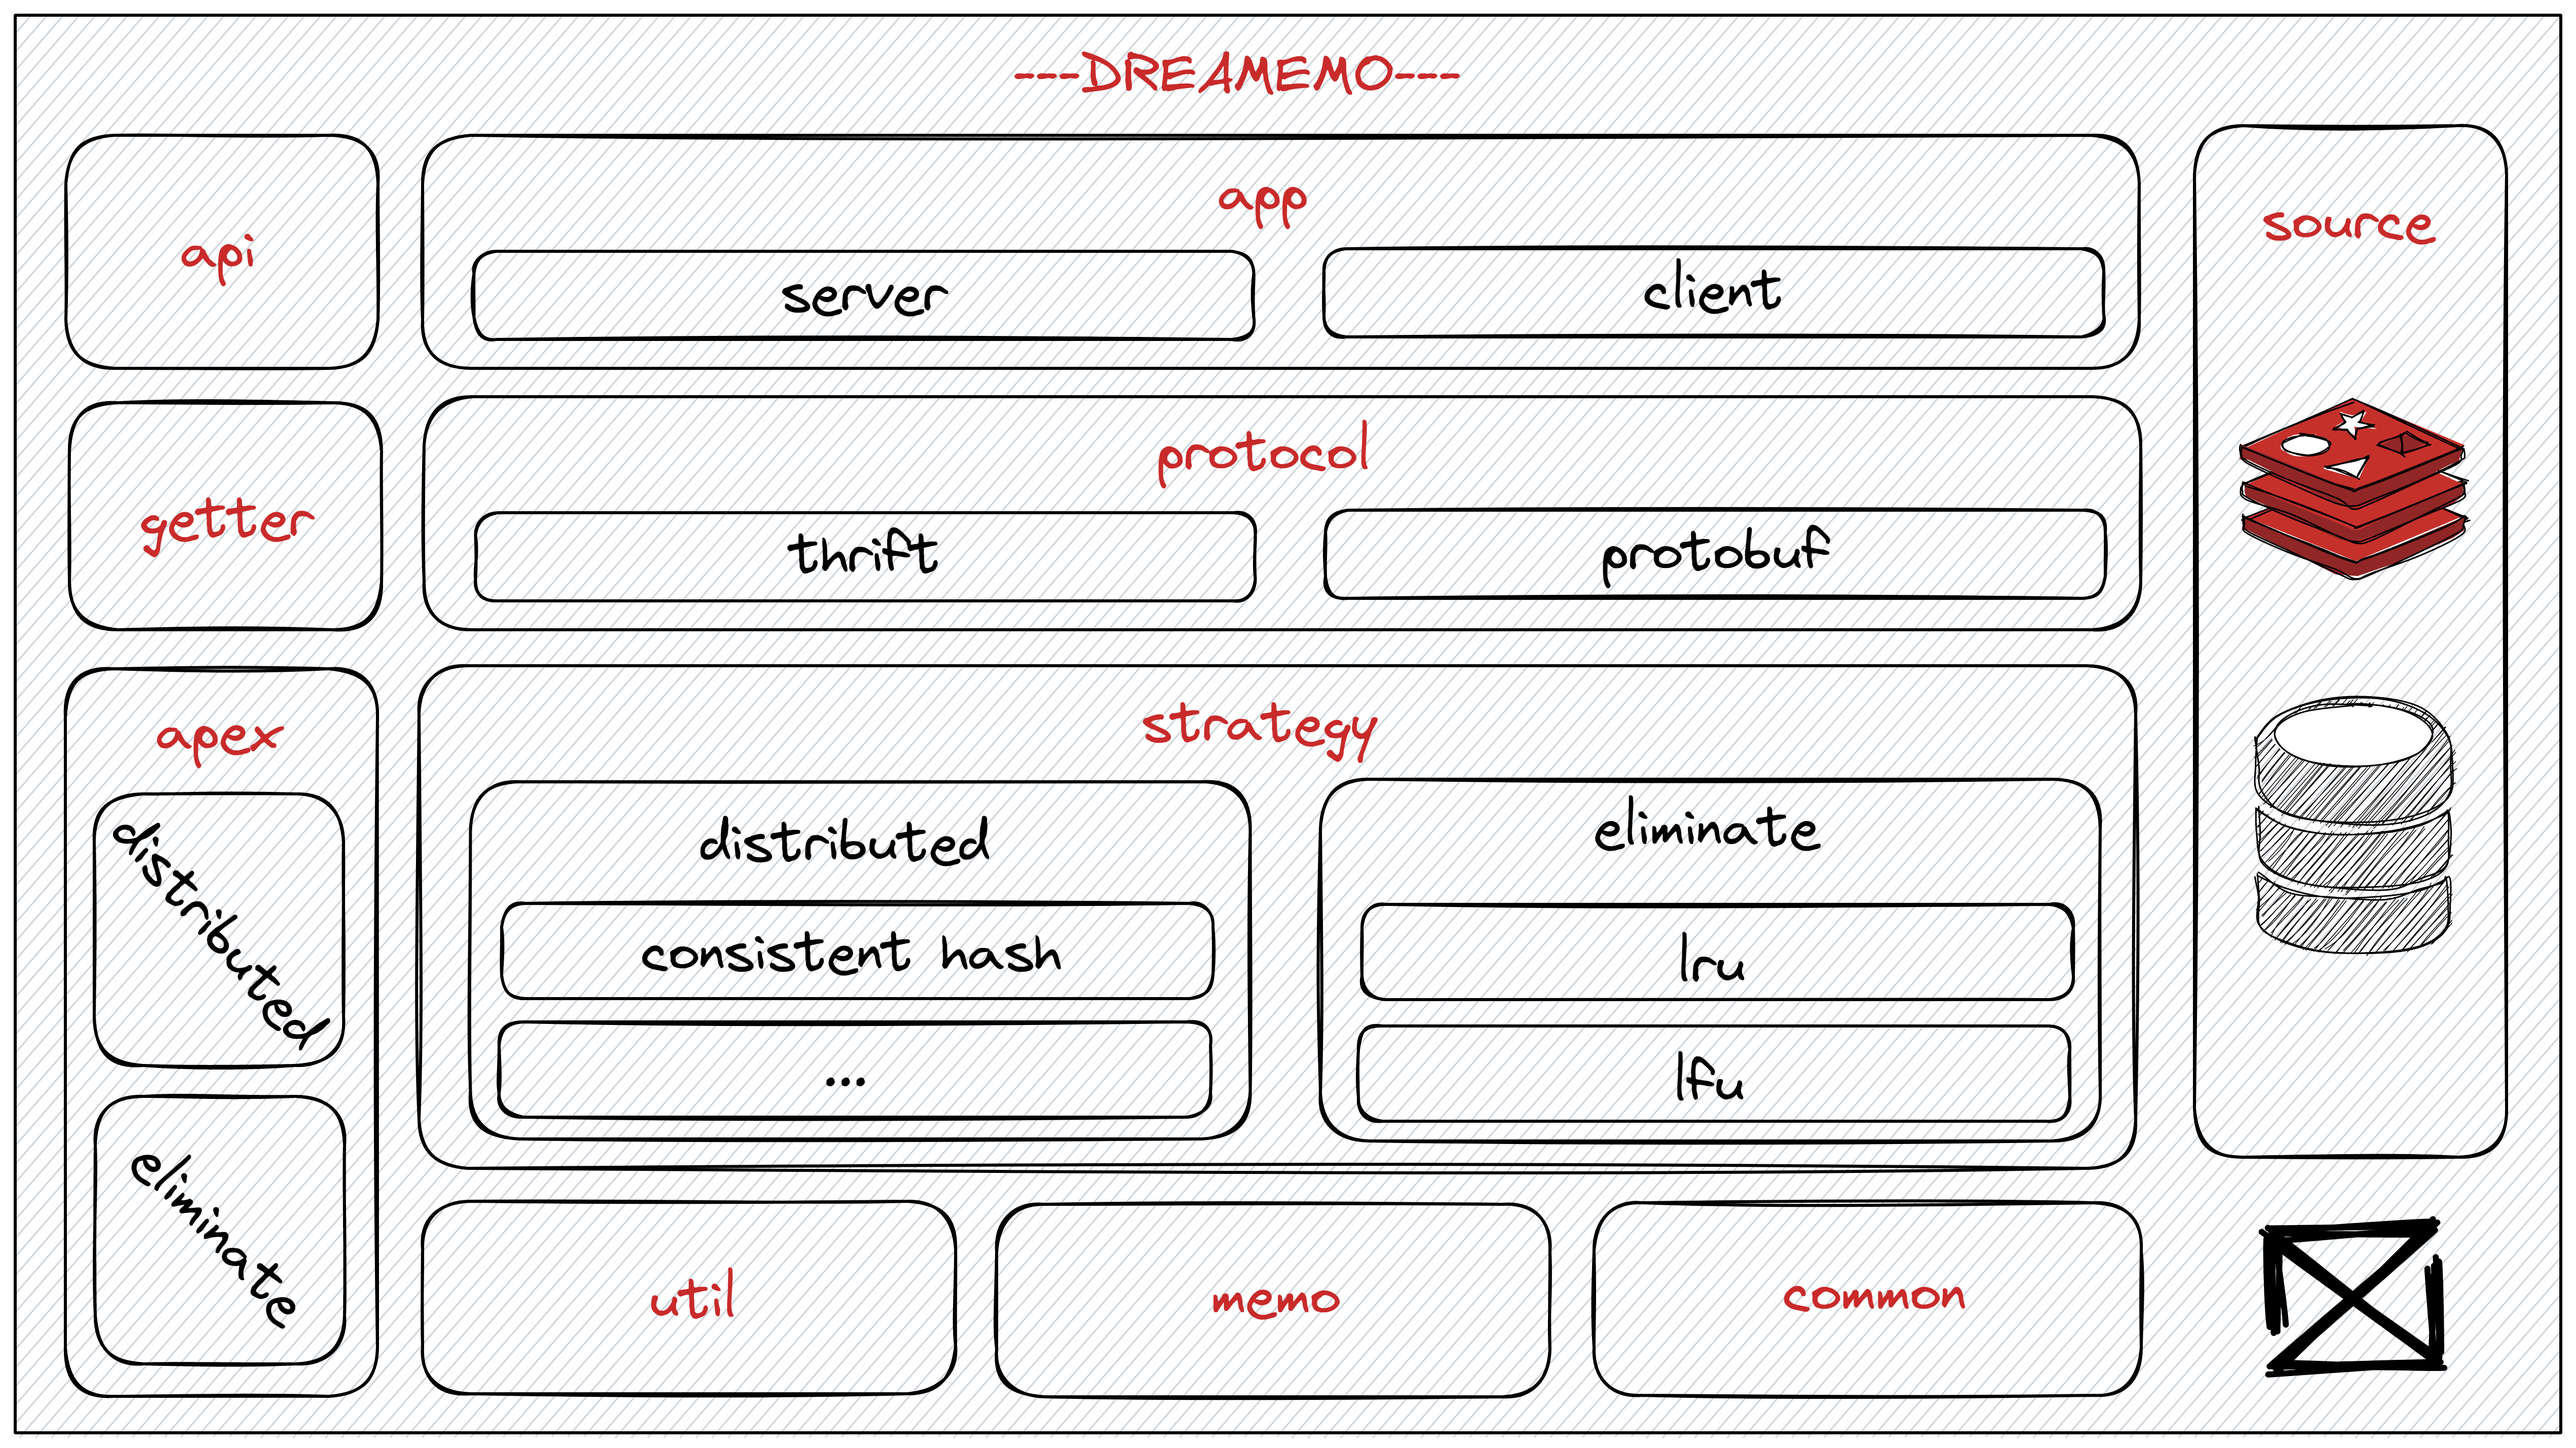
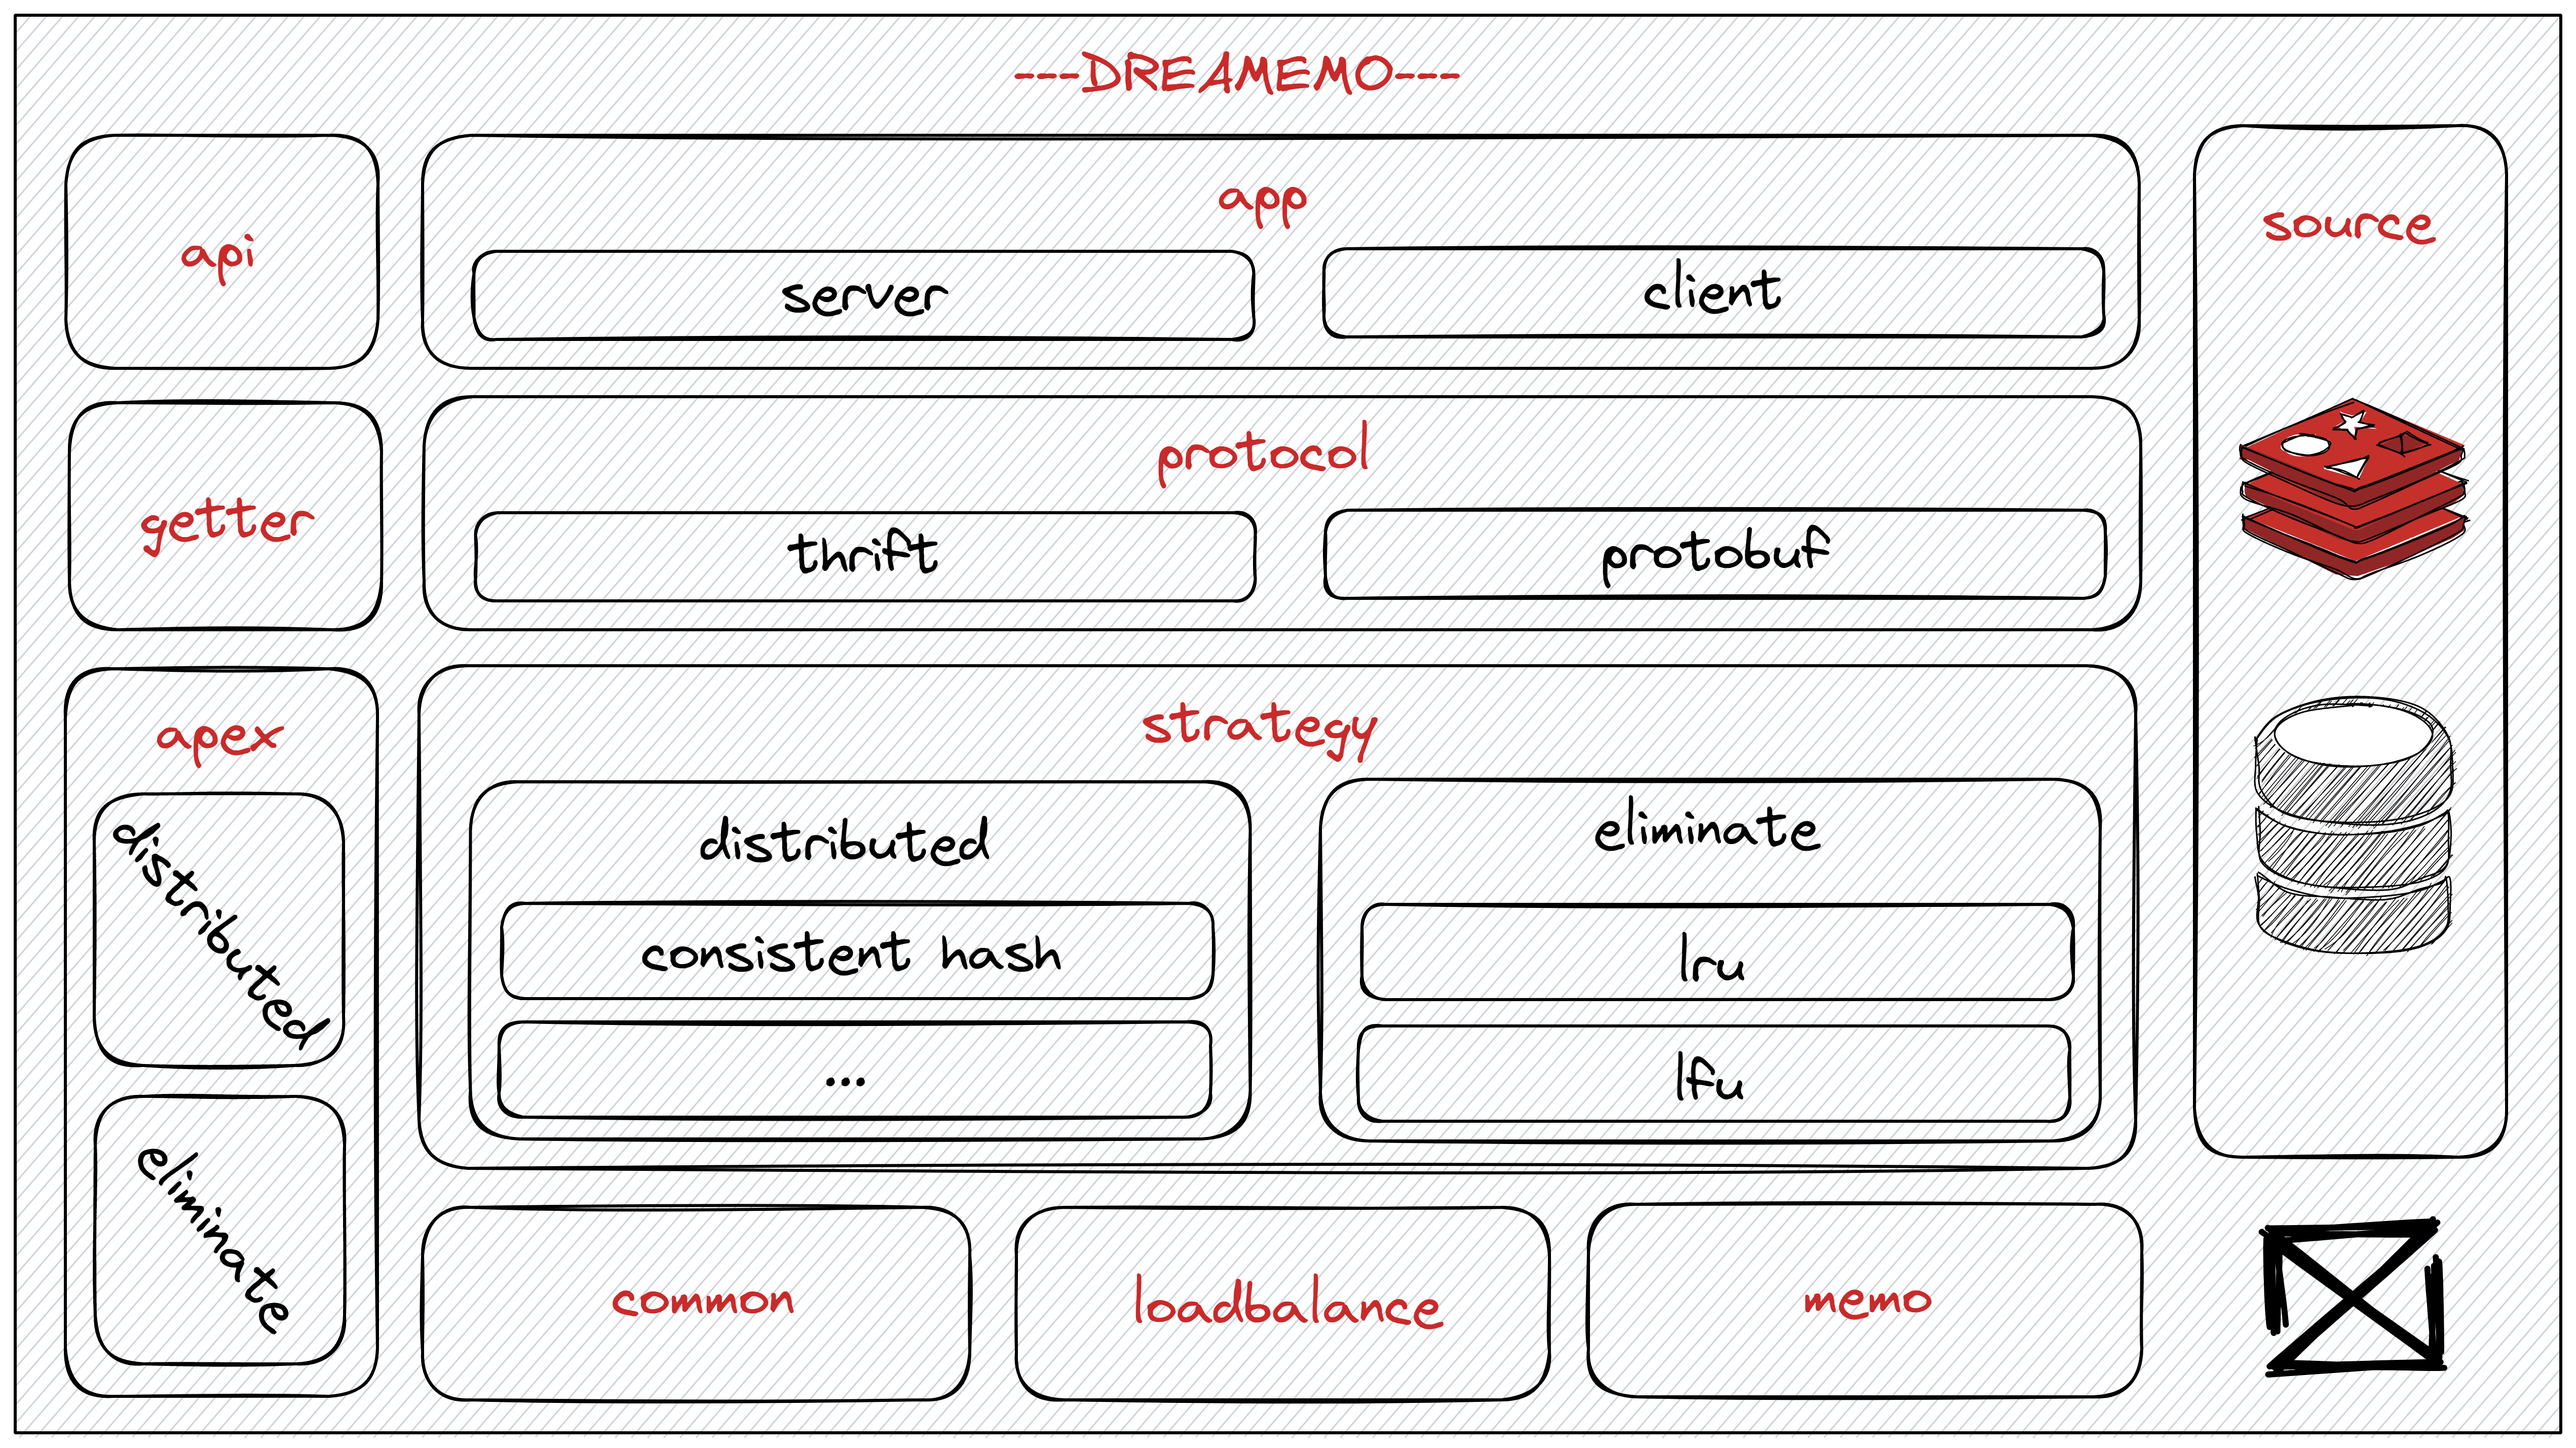
move util to common

diff --git a/api/group.go b/api/group.go
@@ -3,10 +3,10 @@ package api
 import (
 	"context"
 	"fmt"
-	"github.com/B1NARY-GR0UP/dreamemo/common"
+	"github.com/B1NARY-GR0UP/dreamemo/common/singleflight"
+	"github.com/B1NARY-GR0UP/dreamemo/common/util"
 	"github.com/B1NARY-GR0UP/dreamemo/memo"
 	"github.com/B1NARY-GR0UP/dreamemo/strategy/eliminate"
-	"github.com/B1NARY-GR0UP/dreamemo/util"
 	"github.com/B1NARY-GR0UP/inquisitor/core"
 	"sync"
 )
@@ -15,7 +15,7 @@ type Group struct {
 	name   string
 	getter Getter
 	memo   memo.Memo
-	sf     common.SingleFlight
+	sf     singleflight.SingleFlight
 }
 
 var (
@@ -35,7 +35,7 @@ func NewGroup(name string, getter Getter) *Group {
 		name:   name,
 		getter: getter,
 		memo:   memo.Memo{},
-		sf:     &common.Group{},
+		sf:     &singleflight.Group{},
 	}
 	groups[name] = g
 	return g

diff --git a/app/server/server.go b/app/server/server.go
@@ -3,9 +3,9 @@ package server
 import (
 	"github.com/B1NARY-GR0UP/dreamemo/api"
 	"github.com/B1NARY-GR0UP/dreamemo/app/client"
+	"github.com/B1NARY-GR0UP/dreamemo/common/util"
 	"github.com/B1NARY-GR0UP/dreamemo/loadbalance"
 	"github.com/B1NARY-GR0UP/dreamemo/strategy/distributed"
-	"github.com/B1NARY-GR0UP/dreamemo/util"
 	"net/http"
 )
 

diff --git a/memo/byteview.go b/memo/byteview.go
@@ -1,6 +1,8 @@
 package memo
 
-import "github.com/B1NARY-GR0UP/dreamemo/util"
+import (
+	"github.com/B1NARY-GR0UP/dreamemo/common/util"
+)
 
 // ByteView data will store in ByteView form
 type ByteView struct {

diff --git a/common/singleflight/singleflight.go b/common/singleflight/singleflight.go
@@ -1,4 +1,4 @@
-package common
+package singleflight
 
 import "sync"
 
